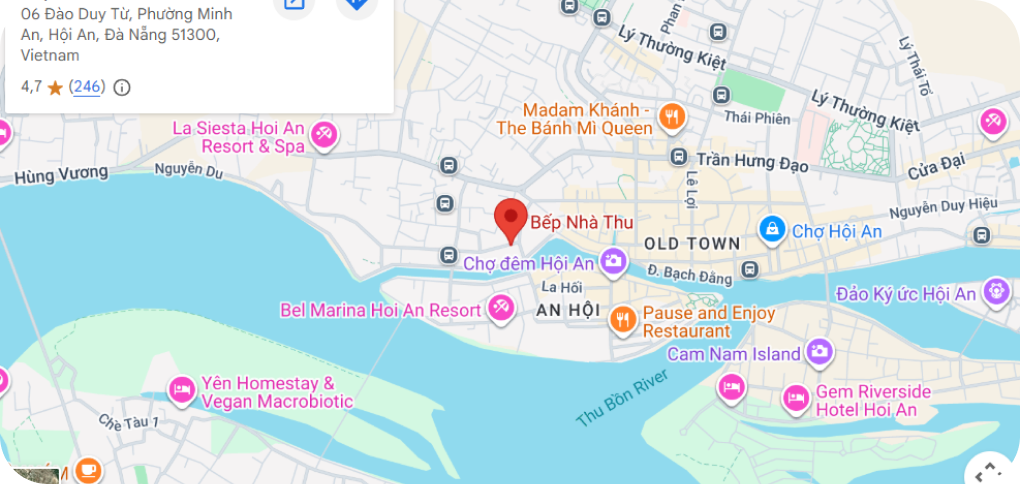
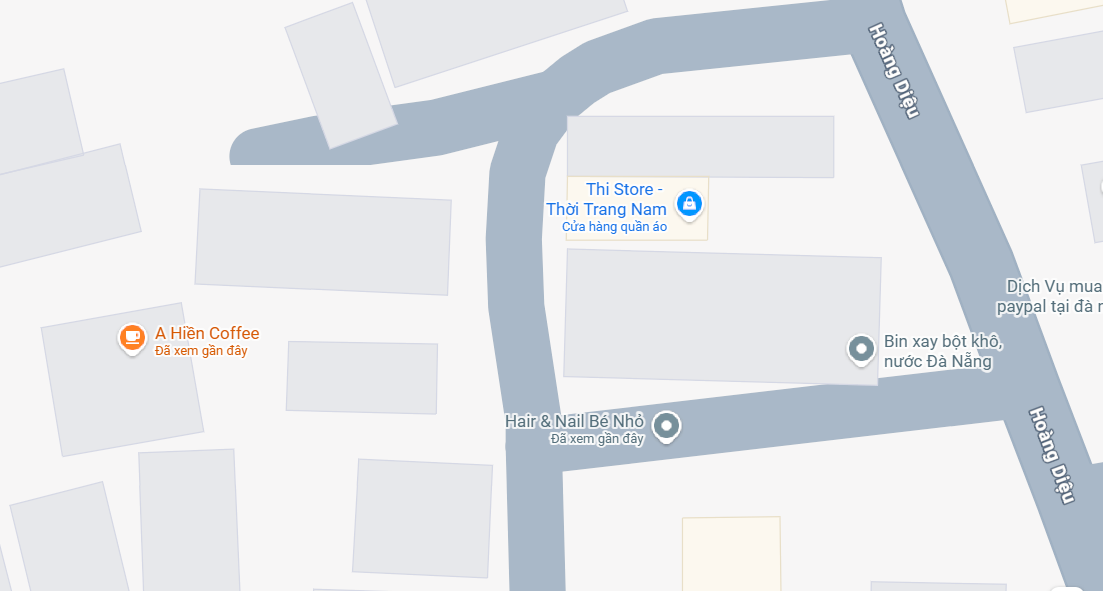
feat: implement home page sections and interactive contact form with data providers

diff --git a/src/features/home/data/about.data.ts b/src/features/home/data/about.data.ts
@@ -5,10 +5,10 @@ export const storyMockData: SettingSection = {
   _id: "mock-story-001",
   key: "home_story",
   rootPage: "home-landing-page",
-  title: "Câu chuyện Bếp nhà Thu",
+  title: "Câu chuyện A Hiền Coffee",
   subtitle:
-    "Không chỉ là một căn bếp, Bếp Nhà Thu là nơi lưu giữ những ký ức Hội An xưa – nơi mỗi món ăn được nấu bằng sự chân thành, kể lại câu chuyện về con người, văn hoá và những điều giản dị nhưng đầy sâu sắc.",
-  content: `Ý nghĩa Bếp Nhà Thu\n\nBếp Nhà Thu không chỉ là tên của một quán ăn, mà còn là lời hứa giữ gìn và phát huy những giá trị văn hóa ẩm thực đặc sắc của vùng đất Quảng Nam - Đà Nẵng. Chúng tôi mong muốn mang đến một không gian ấm cúng, gợi nhớ lại những kỷ niệm gia đình đầm ấm xung quanh bếp lửa quê.\n\nGiữa nhịp sống vội vã của hiện đại, Bếp Nhà Thu như một khoảng lặng bình yên, nơi thực khách có thể cảm nhận rõ nét từng nguyên liệu tươi ngon được chế biến theo công thức cổ truyền tỉ mỉ. Không chỉ đơn thuần là việc phục vụ bữa ăn, Bếp Nhà Thu còn truyền tải sự hiếu khách, chân chất của con người miền Trung đến từng thực khách ghé chân.\n\nTừ đĩa cơm gà thơm dẻo, sợi mì Cao Lầu vàng óng dai mềm cho đến những chiếc bánh lọc, nem lụi nướng thơm nức mũi, tất cả đều được chế biến bằng cả tấm lòng của đội ngũ đầu bếp giàu tâm huyết tại Bếp Nhà Thu.`,
+    "Từ năm 1986, A Hiền Coffee đã âm thầm hiện diện trong một con hẻm nhỏ giữa lòng Đà Nẵng. Chúng tôi tin rằng một ly cà phê ngon không chỉ đến từ hạt cà phê chất lượng, mà còn từ sự chân thành, sự tỉ mỉ và những khoảnh khắc bình yên được sẻ chia.",
+  content: `Ý nghĩa A Hiền Coffee \n\n A Hiền Coffee không đơn thuần là một quán cà phê, mà là một góc nhỏ để những người yêu sự bình yên tìm về giữa nhịp sống hối hả. Nép mình trong con hẻm nhỏ của thành phố Đà Nẵng, quán gìn giữ nét mộc mạc của những quán cà phê xưa, nơi hương cà phê phin lan tỏa chậm rãi và mỗi vị khách đều được chào đón bằng sự chân thành. \n\n Từ năm 1986, chúng tôi luôn trân trọng những giá trị truyền thống của cà phê Việt. Mỗi ly cà phê được pha bằng phin theo cách quen thuộc, để từng giọt cà phê nhỏ xuống mang theo hương thơm đậm đà và sự kiên nhẫn – như chính tinh thần mà A Hiền Coffee muốn gửi gắm đến mọi người. Không gian của quán được tạo nên từ cây xanh và những góc nhỏ bình yên. \n\n Dù bạn ghé quán để bắt đầu một ngày mới, gặp gỡ bạn bè, làm việc hay đơn giản chỉ muốn tìm một khoảng lặng cho riêng mình, A Hiền Coffee luôn mong rằng nơi đây sẽ mang đến cảm giác gần gũi như trở về một góc quen thuộc. Với chúng tôi, mỗi ly cà phê không chỉ là một thức uống, mà còn là lời mời bạn sống chậm lại, tận hưởng hiện tại và lưu giữ những khoảnh khắc giản dị nhưng đáng nhớ.`,
   config: {
     hasTitle: true,
     hasSubtitle: true,
@@ -49,7 +49,7 @@ export const valuesMockData: SettingSection = {
   key: "home_values",
   rootPage: "home-landing-page",
   title: "Giá trị cốt lõi",
-  subtitle: "Những nguyên tắc tạo nên nét đặc trưng của Bếp Nhà Thu",
+  subtitle: "Những nguyên tắc tạo nên nét đặc trưng của A Hiền Coffee",
   config: {
     hasTitle: true,
     hasSubtitle: true,
@@ -66,33 +66,33 @@ export const valuesMockData: SettingSection = {
     {
       key: "value-1",
       icon: "book",
-      title: "Ẩm thực là câu chuyện",
+      title: "Cà phê là một hành trình",
       content:
-        "Mỗi món ăn đều mang trong mình một câu chuyện về con người, về đất đai và niềm vui sum vầy.",
+        "Mỗi ly cà phê là sự hòa quyện giữa nhiều loại hạt được tuyển chọn kỹ lưỡng, tạo nên hương vị cân bằng, đậm đà và mang dấu ấn riêng của A Hiền Coffee.",
       position: 1,
     },
     {
       key: "value-2",
       icon: "clock",
-      title: "Giữ trọn hương vị xưa",
+      title: "Giữ trọn vị cà phê phin",
       content:
-        "Chúng tôi tôn trọng và truyền tải hương vị truyền thống Hội An một cách trọn vẹn và tỉ mỉ nhất.",
+        "Chúng tôi vẫn gìn giữ phương pháp pha phin truyền thống, để từng giọt cà phê nhỏ xuống chậm rãi, lưu giữ trọn vẹn hương thơm và vị nguyên bản.",
       position: 2,
     },
     {
       key: "value-3",
       icon: "hand-point-up",
-      title: "Trải nghiệm chạm cảm xúc",
+      title: "Pha bằng sự chân thành",
       content:
-        "Không chỉ mang lại món ăn ngon, chúng tôi hướng tới sự chân thành và hiếu khách chạm đến trái tim.",
+        "Không chỉ phục vụ một ly cà phê ngon, chúng tôi mong mang đến cảm giác gần gũi, bình yên và những khoảnh khắc đáng nhớ trong từng lần ghé quán.",
       position: 3,
     },
     {
       key: "value-4",
       icon: "leaf",
-      title: "Khởi nguồn tươi nguyên",
+      title: "Blend tạo nên khác biệt",
       content:
-        "Toàn bộ nguyên liệu đều được tuyển chọn kỹ lưỡng, đảm bảo độ tươi ngon, sạch sẽ và an toàn mỗi ngày.",
+        "Mỗi mẻ cà phê là sự phối trộn hài hòa giữa nhiều loại hạt với tỷ lệ riêng, tạo nên hương thơm đặc trưng, hậu vị êm và dấu ấn chỉ có tại A Hiền Coffee.",
       position: 4,
     },
   ],

diff --git a/src/features/home/data/contact.data.ts b/src/features/home/data/contact.data.ts
@@ -5,11 +5,11 @@ export const contactMockData: SettingSection = {
   _id: "mock-contact-001",
   key: "home_contact",
   rootPage: "home-landing-page",
-  title: "Góc nhỏ Bếp Nhà Thu",
+  title: "Một Góc Bình Yên Giữa Lòng Đà Nẵng - Since 1986",
   subtitle:
-    "Khép lại những ồn ào, Bếp đón bạn vào một không gian an yên nơi góc phố Đào Duy Từ. Sự mộc mạc của cảnh vật hòa cùng cách chăm chút tỉ mỉ mang đến một chốn dừng chân đầm ấm, thân tình.",
+    "Từ năm 1986, A Hiền Coffee luôn gìn giữ hương vị cà phê truyền thống và sự chân thành trong từng ly cà phê. Chúng tôi hy vọng mỗi vị khách khi ghé quán đều tìm thấy một góc nhỏ để nghỉ ngơi, trò chuyện, làm việc hoặc đơn giản là tận hưởng một khoảng lặng cho riêng mình.",
   content:
-    "Khép lại những ồn ào, Bếp đón bạn vào một không gian an yên nơi góc phố Đào Duy Từ. Sự mộc mạc của cảnh vật hòa cùng cách chăm chút tỉ mỉ mang đến một chốn dừng chân đầm ấm, thân tình.",
+    "Nép mình trong con hẻm nhỏ, A Hiền Coffee mang đến một không gian mộc mạc, nơi hương cà phê phin lan tỏa trong ánh nắng dịu và những câu chuyện đời thường. Chỉ cần bước vào, bạn sẽ cảm nhận được sự bình yên rất riêng giữa nhịp sống thành phố.",
   image: IMAGES.contact.image,
   config: {
     hasTitle: true,
@@ -27,21 +27,21 @@ export const contactMockData: SettingSection = {
     {
       key: "contact-phone",
       title: "Hotline / Zalo",
-      content: "0915003833",
+      content: "0982347xxx",
       icon: `<svg viewBox="0 0 24 24" fill="none" xmlns="http://www.w3.org/2000/svg"><path d="M6.62 10.79a15.053 15.053 0 006.59 6.59l2.2-2.2c.27-.27.67-.36 1.02-.24 1.12.37 2.33.57 3.57.57.55 0 1 .45 1 1V20c0 .55-.45 1-1 1-9.39 0-17-7.61-17-17 0-.55.45-1 1-1h3.5c.55 0 1 .45 1 1 0 1.25.2 2.45.57 3.57.11.35.03.74-.25 1.02l-2.2 2.2z" fill="#955127"/></svg>`,
       position: 1,
     },
     {
       key: "contact-email",
       title: "Email",
-      content: "nguyenhithuongthu012@gmail.com",
+      content: "quangthong211101@gmail.com",
       icon: `<svg viewBox="0 0 24 24" fill="none" xmlns="http://www.w3.org/2000/svg"><path d="M20 4H4c-1.1 0-1.99.9-1.99 2L2 18c0 1.1.9 2 2 2h16c1.1 0 2-.9 2-2V6c0-1.1-.9-2-2-2zm0 4l-8 5-8-5V6l8 5 8-5v2z" fill="#955127"/></svg>`,
       position: 2,
     },
     {
       key: "contact-address",
       title: "Địa chỉ",
-      content: "06 Đào Duy Từ, Phường Hội An, Thành phố Đà Nẵng",
+      content: "K514/5 Hoàng Diệu, phường Hòa Cường, Thành phố Đà Nẵng",
       icon: `<svg viewBox="0 0 24 24" fill="none" xmlns="http://www.w3.org/2000/svg"><path d="M12 2C8.13 2 5 5.13 5 9c0 5.25 7 13 7 13s7-7.75 7-13c0-3.87-3.13-7-7-7zm0 9.5c-1.38 0-2.5-1.12-2.5-2.5s1.12-2.5 2.5-2.5 2.5 1.12 2.5 2.5-1.12 2.5-2.5 2.5z" fill="#955127"/></svg>`,
       position: 3,
     },

diff --git a/src/features/home/components/ContactForm.tsx b/src/features/home/components/ContactForm.tsx
@@ -48,13 +48,13 @@ export function ContactForm({ data }: ContactFormProps) {
   const contactMethods =
     data.gridItems && data.gridItems.length > 0
       ? [...data.gridItems]
-          .sort((a, b) => (a.position ?? 0) - (b.position ?? 0))
-          .map((item) => ({
-            name: item.title || "",
-            value: item.content || "",
-            iconSvg: item.icon || "",
-            icon: null,
-          }))
+        .sort((a, b) => (a.position ?? 0) - (b.position ?? 0))
+        .map((item) => ({
+          name: item.title || "",
+          value: item.content || "",
+          iconSvg: item.icon || "",
+          icon: null,
+        }))
       : [];
 
   return (
@@ -203,14 +203,14 @@ export function ContactForm({ data }: ContactFormProps) {
               <div className="relative w-full grow rounded-2xl overflow-hidden bg-stone-100 border border-stone-200 min-h-[180px] lg:min-h-0">
                 <Link
                   href={
-                    "https://www.google.com/maps/place/6+%C4%90%C3%A0o+Duy+T%E1%BB%AB,+H%E1%BB%99i+An,+%C4%90%C3%A0+N%E1%BA%B5ng,+Vi%E1%BB%87t+Nam/@15.8773258,108.3200389,17z/data=!3m1!4b1!4m6!3m5!1s0x31420e7ce1f0ad7f:0x67d30a01e77e2e3c!8m2!3d15.8773207!4d108.3226138!16s%2Fg%2F11lgn28g0g?entry=ttu&g_ep=EgoyMDI2MDUxNy4wIKXMDSoASAFQAw%3D%3D"
+                    "https://www.google.com/maps/place/A+Hi%E1%BB%81n+Coffee/@16.0518188,108.2174677,17z/data=!3m1!4b1!4m6!3m5!1s0x314219005268a871:0xba5e4eb6104ae07c!8m2!3d16.0518188!4d108.2174677!16s%2Fg%2F11ntptjcq1?hl=vi&entry=ttu&g_ep=EgoyMDI2MDgwNC4wIKXMDSoASAFQAw%3D%3D"
                   }
                   target="_blank"
                   rel="noopener noreferrer"
                 >
                   <Image
                     src={IMAGES.contact.map}
-                    alt="Bản đồ chỉ đường Bếp Nhà Thu"
+                    alt="Bản đồ chỉ đường A Hiền Coffee"
                     fill
                     className="object-cover"
                   />
@@ -218,7 +218,7 @@ export function ContactForm({ data }: ContactFormProps) {
               </div>
               <div className="text-center mt-4">
                 <p className="text-sm text-stone-600 font-medium">
-                  06 Đào Duy Từ, Phường Hội An, Thành phố Đà Nẵng
+                  K514/5 Hoàng Diệu, phường Hòa Cường, Thành phố Đà Nẵng
                 </p>
               </div>
             </div>

diff --git a/src/features/home/data/experience.data.ts b/src/features/home/data/experience.data.ts
@@ -5,9 +5,9 @@ export const experienceMockData: SettingSection = {
   _id: "mock-experience-001",
   key: "home_experience",
   rootPage: "home-landing-page",
-  title: "Trải nghiệm tại Bếp Nhà Thu",
+  title: "Trải nghiệm tại A Hiền Coffee",
   subtitle:
-    "Mỗi hành trình tại Bếp Nhà Thu bắt đầu từ không gian mộc mạc tinh tế, chạm đến vị giác bằng những hương vị Hội An nguyên bản và đọng lại thành những kỷ niệm vương vấn đến mai sau.",
+    "Từ năm 1986, mỗi ly cà phê tại A Hiền Coffee được tạo nên từ sự hòa quyện của nhiều hạt cà phê tuyển chọn, rang xay theo công thức riêng và pha phin chậm rãi. Không chỉ là một thức uống, đó là hương vị gắn liền với ký ức và những cuộc gặp gỡ qua nhiều thế hệ.",
   image: IMAGES.experience.background,
   config: {
     hasTitle: true,
@@ -24,22 +24,22 @@ export const experienceMockData: SettingSection = {
   gridItems: [
     {
       key: "exp-1",
-      title: "Bước vào không gian",
-      content: "Cảm nhận sự ấm áp từ ánh đèn lồng, gỗ cũ, và không khí dễ chịu",
+      title: "Chọn lọc hương vị",
+      content: "Những hạt cà phê được phối trộn theo công thức truyền thống để tạo nên hương thơm cân bằng và đậm đà.",
       image: IMAGES.experience.image1,
       position: 1,
     },
     {
       key: "exp-2",
-      title: "Thưởng thức món ăn",
-      content: "Khám phá hương vị truyền thống được nấu nướng tỉ mỉ với tình yêu",
+      title: "Pha phin chậm rãi",
+      content: "Từng giọt cà phê nhỏ xuống từ chiếc phin, giữ trọn hương thơm và vị nguyên bản trong từng tách.",
       image: IMAGES.experience.image2,
       position: 2,
     },
     {
       key: "exp-3",
-      title: "Trọn vẹn cảm xúc",
-      content: "Khép lại hành trình, gói kèm hơi ấm và nụ cười hiếu khách",
+      title: "Thưởng thức & lưu giữ",
+      content: "Thưởng thức một ly cà phê mang dấu ấn từ năm 1986, nơi mỗi cuộc trò chuyện đều trở nên gần gũi và đáng nhớ.",
       image: IMAGES.experience.image3,
       position: 3,
     },

diff --git a/src/features/home/data/featured-dish.data.ts b/src/features/home/data/featured-dish.data.ts
@@ -5,12 +5,12 @@ export const featuredDishMockData: SettingSection = {
   _id: "mock-featured-dish-001",
   key: "home_featured_dish",
   rootPage: "home-landing-page",
-  title: "Cao Lầu - Trọn vẹn hồn phố cổ",
-  subtitle: "Món ăn đặc sản",
+  title: "Cà phê phin A Hiền - Since 1986",
+  subtitle: "Hương vị đặc trưng",
   description:
-    "Sợi mì vàng óng quyện cùng nước dùng xíu đậm đà, thịt xá xíu mềm thơm và tóp mỡ giòn rụm. Thưởng thức một bát Cao Lầu tại Bếp Nhà Thu là chạm vào một câu chuyện thấm đượm tình đất, tình người và tinh hoa văn hóa truyền đời của phố cổ Hội An.",
+    "Được phối trộn từ nhiều loại hạt cà phê theo công thức riêng từ năm 1986, mỗi ly cà phê phin A Hiền mang hương thơm đậm đà, vị cân bằng và hậu ngọt nhẹ. Từng giọt cà phê nhỏ chậm qua phin, giữ trọn tinh túy của hạt rang, tạo nên một trải nghiệm mộc mạc nhưng khó quên.",
   content:
-    "Sợi mì vàng óng quyện cùng nước dùng xíu đậm đà, thịt xá xíu mềm thơm và tóp mỡ giòn rụm. Thưởng thức một bát Cao Lầu tại Bếp Nhà Thu là chạm vào một câu chuyện thấm đượm tình đất, tình người và tinh hoa văn hóa truyền đời của phố cổ Hội An.",
+    "Không chạy theo xu hướng, A Hiền Coffee vẫn giữ cách pha phin truyền thống suốt nhiều thập kỷ. Mỗi ly cà phê là sự kết hợp giữa chất lượng hạt, kỹ thuật rang xay và thời gian chiết xuất vừa đủ, để khi thưởng thức, bạn cảm nhận được hương thơm lan tỏa, vị đậm vừa phải và dư vị kéo dài sau từng ngụm.",
   image: IMAGES.featuredDish,
   url: "#lien-he",
   config: {

diff --git a/src/features/home/data/gallery.data.ts b/src/features/home/data/gallery.data.ts
@@ -5,9 +5,9 @@ export const galleryMockData: SettingSection = {
   _id: "mock-gallery-001",
   key: "home_gallery",
   rootPage: "home-landing-page",
-  title: "Góc nhỏ Bếp Nhà Thu",
+  title: "A Hiền Coffee – Since 1986",
   subtitle:
-    "Khép lại những ồn ào, Bếp đón bạn vào một không gian an yên nơi góc phố Đào Duy Từ. Sự mộc mạc của cảnh vật hòa cùng cách chăm chút tỉ mỉ mang đến một chốn dừng chân đầm ấm, thân tình.",
+    "Từ năm 1986, A Hiền Coffee luôn gìn giữ hương vị cà phê truyền thống và sự chân thành trong từng ly cà phê. Chúng tôi hy vọng mỗi vị khách khi ghé quán đều tìm thấy một góc nhỏ để nghỉ ngơi, trò chuyện, làm việc hoặc đơn giản là tận hưởng một khoảng lặng cho riêng mình.",
   config: {
     hasTitle: true,
     hasSubtitle: true,

diff --git a/src/features/home/data/hero.data.ts b/src/features/home/data/hero.data.ts
@@ -5,9 +5,9 @@ export const heroMockData: SettingSection = {
   _id: "mock-hero-001",
   key: "home_hero",
   rootPage: "home-landing-page",
-  title: "BẾP NHÀ THU - Ẩm thực là cách dịu dàng nhất để chạm đến trái tim con người!",
+  title: "A HIỀN COFFEE – Since 1986",
   subtitle:
-    "Thưởng thức hương vị truyền thống Hội An xưa trong không gian ấm áp, cổ kính, giàu cảm xúc. Mỗi bữa ăn không chỉ là thưởng thức, mà là một hành trình.",
+    "Giữa nhịp sống hối hả của Đà Nẵng, luôn có một góc nhỏ dành cho những ai yêu cà phê, yêu sự bình yên và những cuộc trò chuyện giản dị.",
   image: IMAGES.hero.background,
   url: "#thuc-don",
   config: {

diff --git a/src/shared/constants/images.ts b/src/shared/constants/images.ts
@@ -26,7 +26,7 @@ export const IMAGES = {
     "/anh9.jpg",
     "/anh10.jpg",
   ],
-  featuredDish: "/caolau.png",
+  featuredDish: "/phin.png",
   contact: {
     image: "/imageContact.png",
     map: "/map.png",
